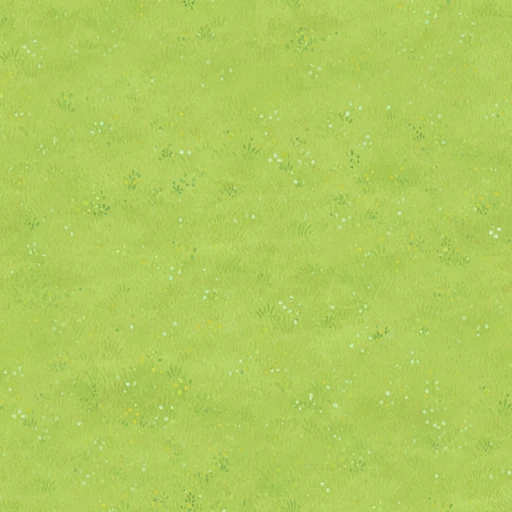
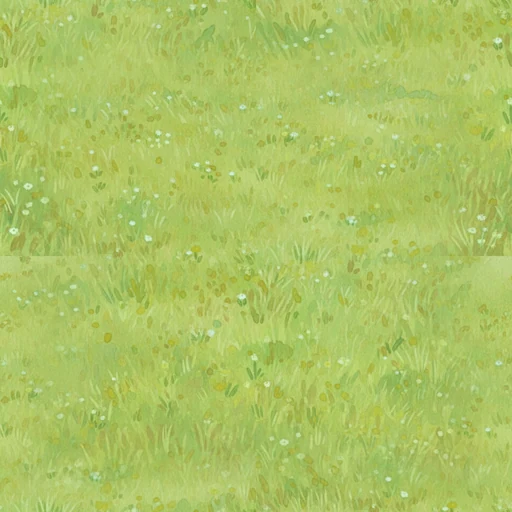
fix(assets): painterly ground textures at full contrast, warmer meadow
After the in-game review: meadow regenerated with visible brushed grass and
a softer, warmer target (172,196,100); all ten re-processed at contrast 1.0
with only very large blotches flattened (stronger for forest, clayland and
scrubland, whose patches showed the repeat).

Claude-Session: https://claude.ai/code/session_01LLn1Q3LzjagWMJjwtZ1Ngu

diff --git a/assets/terrain/tools/terrain.py b/assets/terrain/tools/terrain.py
@@ -12,7 +12,7 @@ STYLE = ("The attached images are STYLE references only (a sunlit Greek island d
   "the same warm Mediterranean palette as the references. The texture fills the entire frame edge to edge with an even, uniform density, "
   "no horizon, no perspective, no vignette, no strong shadows, no objects (no trees, no large rocks, no buildings, no paths, no people), no text. Ground: ")
 BIOMES = {
-  "meadow":   ((176, 204, 92),  "lush yellow-green meadow grass with tiny scattered painted wildflowers in white and yellow"),
+  "meadow":   ((172, 196, 100), "soft warm yellow-green meadow grass like sunny Mediterranean hillsides, clearly visible brushed grass strokes in several greens and golden-greens, tiny scattered painted wildflowers in white and yellow"),
   "forest":   ((108, 156, 74),  "darker green forest-floor grass with fallen pine needles and small leaf litter"),
   "prairie":  ((230, 200, 104), "golden dry summer grass with soft ochre tones"),
   "highland": ((214, 206, 182), "pale cream limestone ground with tiny pebbles and thin sparse grass"),
@@ -23,8 +23,9 @@ BIOMES = {
   "beach":    ((237, 209, 153), "warm pale fine beach sand with very faint ripples and a few tiny shell specks"),
   "shallows": ((120, 196, 190), "clear turquoise shallow sea water over pale sand, soft light ripples, seen from directly above"),
 }
-CONTRAST = 0.75           # keep detail but soften it so units stay readable
-FLATTEN = 0.75            # share of large-scale blotchiness removed
+CONTRAST = 1.0            # keep the painted strokes; the shader already lifts contrast about 1.8x
+FLATTEN = 0.5             # share of very-large-scale blotchiness removed
+FLATTEN_STRONG = {"forest": 0.85, "clayland": 0.85, "scrubland": 0.75}   # big blotches that showed the repeat
 OUT = "terrain"
 
 def make(name):
@@ -42,8 +43,8 @@ def finish(name):
     img = raw.crop((m, m, w - m, h - m)).resize((1024, 1024), Image.LANCZOS)
     a = np.asarray(img).astype(np.float32)
     # Flatten large blotches (they make the repeat visible); keep brush-scale detail.
-    low = np.asarray(img.filter(ImageFilter.GaussianBlur(56))).astype(np.float32)
-    a = a - FLATTEN * (low - low.reshape(-1, 3).mean(0))
+    low = np.asarray(img.filter(ImageFilter.GaussianBlur(160))).astype(np.float32)
+    a = a - FLATTEN_STRONG.get(name, FLATTEN) * (low - low.reshape(-1, 3).mean(0))
     # Seamless: blend with the half-offset copy, whose seams sit where this copy is fully opaque.
     rolled = np.roll(np.roll(a, 512, 0), 512, 1)
     t = np.abs(np.linspace(-1, 1, 1024)); w1 = np.clip((1 - t) / 0.45, 0, 1); w1 = w1 * w1 * (3 - 2 * w1)

diff --git a/assets/terrain/README.md b/assets/terrain/README.md
@@ -26,9 +26,11 @@ Names: meadow, forest, prairie, highland, wetland, scrubland, heath, clayland (t
 `finish()` in `tools/terrain.py` is deterministic and free:
 
 1. Crop a 3% border, because the model tends to paint a darker frame or vignette; resample to 1024.
-2. Flatten large blotches: subtract 75% of the 56 px Gaussian low-pass deviation. Big light and dark patches are what make a repeat visible.
+2. Flatten only very large blotches: subtract 50% of the 160 px Gaussian low-pass deviation (85% for forest and clayland, 75% for scrubland, whose big patches showed the repeat at 3×3). Brush-scale strokes are kept, because the shader lifts contrast about 1.8× itself.
 3. Make it seamless: blend with the half-offset copy using a smoothstep weight that is 1 in the middle and 0 at the edges. The output wraps exactly by construction, and the blend zone is soft enough not to show on these homogeneous textures.
-4. Recolour: move the mean onto the target colour and scale deviations by 0.75 (low contrast, so units read on top). The targets are `BIOME_COLORS`, beach (237,209,153) to match the shader's sand, and shallows (120,196,190).
+4. Recolour: move the mean onto the target colour at full contrast (1.0). The targets are `BIOME_COLORS`, except meadow, which uses a softer, warmer (172,196,100) as asked after the in-game review instead of (176,204,92). Beach is (237,209,153) to match the shader's sand, and shallows is (120,196,190).
+
+Revision 2: after an in-game review, the first pass (contrast 0.75, 56 px flattening at 75%) read as flat lime. Meadow was regenerated with a prompt asking for clearly visible brushed grass strokes, and all ten were re-processed with the settings above.
 
 Rejected: inpainting the offset seam with `fal-ai/flux-pro/v1/fill`. It read the cross-shaped mask as an object and painted a raised plank cross into the beach. The first clayland was regenerated once because its pebbles came in two horizontal bands that striped the tile.
 
@@ -36,14 +38,15 @@ Rejected: inpainting the offset seam with `fal-ai/flux-pro/v1/fill`. It read the
 
 - Every texture was checked tiled 2×2 (contact sheet) and with 1:1 crops across the wrap edges.
 - Mean colours land within ±1 of their targets (measured on the 512 webp).
+- Repeat checked on 3×3 tilings; forest keeps a faint medium-scale pattern, which the shader's second rotated sample breaks up.
 - In-game, headless Chromium at gameplay and closest zoom: the shader picks up all ten files (no 404s), and villagers, resources and the town center stay readable on the painted ground.
 
 ## Cost
 
-About **$0.60**: eleven nano-banana/edit generations (ten textures plus the clayland redo) and three Flux Fill attempts that were thrown away. Branch total so far is about $3.92.
+About **$0.64**: twelve nano-banana/edit generations (ten textures plus the clayland and meadow redos) and three Flux Fill attempts that were thrown away.
 
 ## Known limitations
 
 - Scrubland's dry-earth crackle forms a polygon mosaic that is visible at the closest zoom.
 - Highland is very pale and quiet; it may want slightly more texture if it reads as blank.
-- Forest's fallen-needle detail mostly turns into small dark specks after recolouring.
+- Forest keeps a faint medium-scale repeat in a plain 3×3 tiling.

diff --git a/OPEN_WORK.md b/OPEN_WORK.md
@@ -40,7 +40,7 @@ Replace the Canvas 2D client with a fullscreen Three.js WebGL client and make pl
 - `assets/models/`: generated GLBs selected with `?glb=`; the temple town center (126 KB) is on by default, while the rigged villager (275 KB, 5 clips) and the cypress (22 KB) are opt-in because they don't read better than the procedural ones at gameplay zoom.
 - `assets/terrain/`: ten seamless painted ground textures (512 webp plus 1024 masters) for `frontend/ground-paint.js`.
 - `assets/sprites/villager{,_woman,_elder}.{png,json}`: three illustrated villager billboard sheets, same layout (34 frames, 256 px cells, feet anchor 128,240), not wired in.
-- FAL spend about $6.59 in total; per-call ledgers live in `assets/*/tools/ledger.jsonl`.
+- FAL spend about $6.63 in total; per-call ledgers live in `assets/*/tools/ledger.jsonl`.
 
 ## Blockers
 
